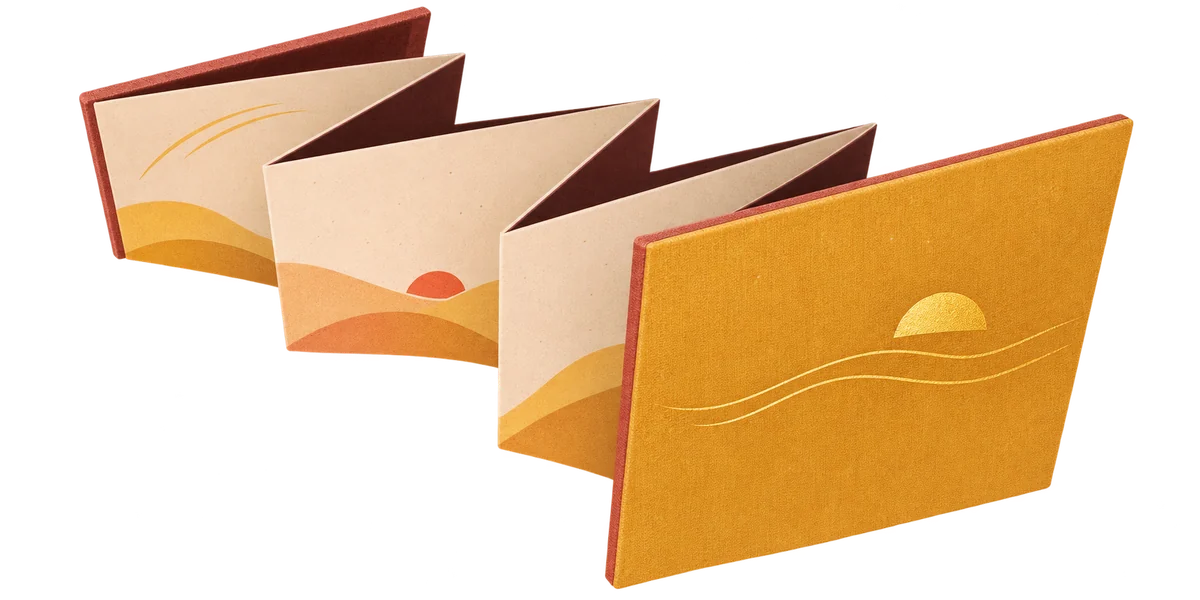
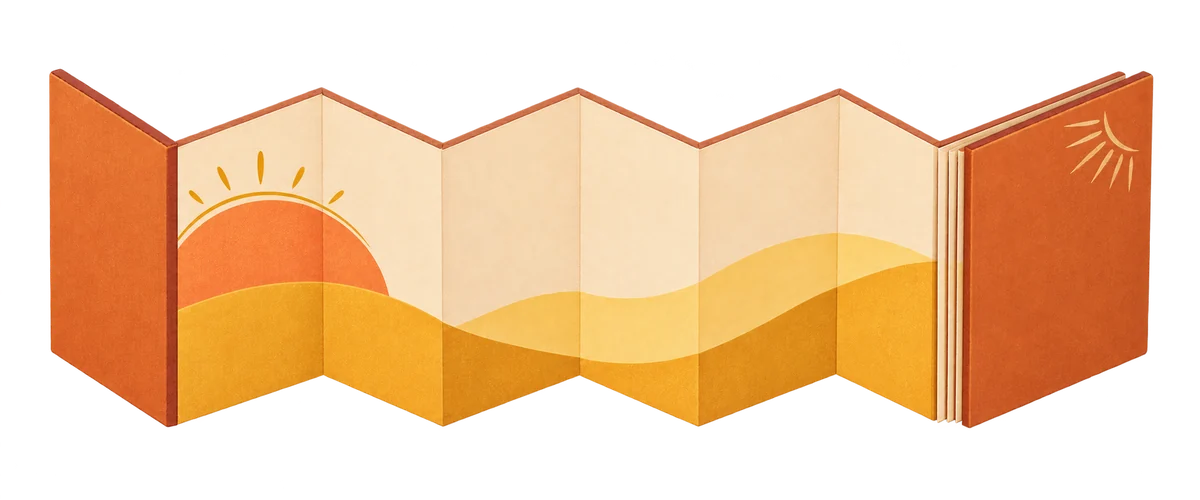
style(home): 换回横版折页书并补上日光与收紧的书口

diff --git a/polyhouse-web/src/components/ToolArtwork.vue b/polyhouse-web/src/components/ToolArtwork.vue
@@ -26,7 +26,7 @@ const covers = {
   },
   image: {
     image: accordionBook,
-    height: 600,
+    height: 500,
     label: 'MAKE ROOM FOR THE PERFECT FIT',
     name: 'TargetKB',
     caption: '每一张，都刚刚好。',

diff --git a/docs/dev-log/v1.0-dev.15.md b/docs/dev-log/v1.0-dev.15.md
@@ -2,7 +2,7 @@
 
 ## 当前摘要
 
-- [首页妙替与妙压卡面重绘](#首页妙替与妙压卡面重绘)保留已认可的妙替纸蝶。妙压以斜俯视的暖黄折页书表现开合，待用户评看。
+- [首页妙替与妙压卡面重绘](#首页妙替与妙压卡面重绘)保留已认可的妙替纸蝶。妙压采用用户选中的横向折页书，日光轮廓和右端紧叠书页已实装，待看稿。
 
 - 星潮任务分支 `codex/github-tech-radar` 源自本机 dev `c06ed41`，包含 PR #5 合入记录 `c7d391f`。用户批准复验通过后经 PR 合入 GitHub `dev`，见[合入前复验](#合入-dev-前复验)。
 - [阶段方案](../plans/github-tech-radar.md)已归档。用户确认日榜、中文 AI 解读、历史阅读、公开只读、仅屋主更新、月预算人民币 10 元以内，以及 S1～S4 全部推荐项；自动与手动复用流程，后端先行。
@@ -60,6 +60,10 @@
 **11 月 23 日暖黄经折装书。** 从卡面分支的翻页稿 `e9a233e` 接续。根据用户对结构和色调的反馈，对照[手工折页书装帧实物，第 2 页](https://bpb-us-w2.wpmucdn.com/portfolio.newschool.edu/dist/d/14707/files/2017/04/Bookbinding-101-Accordion-Book-%E2%80%93-DesignSponge-2580mjr.pdf#page=2)，采用斜俯视构图。前封遮住近处折页，连续的折线通向后封。金黄封面、浅杏纸页、深赭折面和小面积珊瑚色落日沿用妙压暖色，借用妙替深浅色块的分配方式。首页组件改用 1200×600 透明 WebP。
 
 本轮 `npm run build`、`npm run lint:check` 和组件 Prettier 检查通过。Chrome 在本机 5199 实测 320、375、760、761、999、1000、1280、1440px，换列、题签和底部入口间距通过，无横向溢出。已目视核对桌面画廊和手机卡面，复验键盘进入妙替、鼠标进入妙压、后退、分类及搜索。当前为本地看稿，待用户确认观感。
+
+**11 月 23 日横向折页书微调。** 按用户选择换回横向展开的原稿。保留金黄山线与两端封皮，太阳调成杏橙色，沿露出山脊的半圆加细金弧和五笔短光芒。靠右封皮补出紧挨的折页边缘，和中间舒展的纸页共同表现收拢。替换妙压透明 WebP，组件同步 1200×500 固有比例。
+
+本轮 `npm run build`、`npm run lint:check` 和组件 Prettier 检查通过。Chrome 在本机 5199 核对了 320、375、760、761、999、1000、1280、1440px 的新版资源、题签与入口间距和换列，无横向溢出。已目视核对手机卡面和桌面画廊中的日光、末端折页，键盘进入妙替、鼠标进入妙压、后退、分类与搜索均通过。待用户确认新版观感。
 
 ## 合入 dev 前复验
 

diff --git a/DEV_LOG.md b/DEV_LOG.md
@@ -2,7 +2,7 @@
 
 更新时间：2026-11-23（Asia/Shanghai）。**v1.0 开发中。**
 
-- 首页：[妙替纸蝶与妙压折页书](docs/dev-log/v1.0-dev.15.md#首页妙替与妙压卡面重绘)。妙替取景已确认。妙压已按实物重绘暖黄经折装书，桌面和手机卡面已核对，本机 5199 可看稿。
+- 首页：[妙替纸蝶与妙压折页书](docs/dev-log/v1.0-dev.15.md#首页妙替与妙压卡面重绘)。妙替取景已确认。妙压已换回用户偏好的暖黄横版，补上日光轮廓和右端压紧的书页；桌面和手机版已核对，本机 5199 可看稿。
 - 星潮：[星潮采集、生成与发布](docs/dev-log/v1.0-dev.15.md#工程收口与文章交接)完成本机阶段核对。11 月 21 日常规采集截图已有本期新稿，读者反馈正文难懂。[文章结构专项](docs/plans/startide-insight-quality.md#文章结构专项候选)留给后续独立分支。11 月 20 日下午断源的首个故障仍缺现场证据。
 - [前端技能](docs/operations/ui-ux-skill.md)保留正式版 v2.15.0。WSL 服务已恢复，原 Redis 启动检查通过，Docker 作为备用入口。
 - 集成：星潮通过[合入前复验](docs/dev-log/v1.0-dev.15.md#合入-dev-前复验)，用户授权任务分支经 PR 进入 GitHub `dev`。后续文章专项以集成后的 `dev` 为基线。
